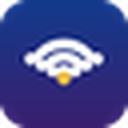
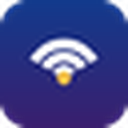
fix: 绕开未签名 exe 的发布者提示
- 新增 启动.vbs：用 WMI 创建进程，双击不再弹「无法验证发布者」
- 开机自启改为 wscript + 启动.vbs --watch
- 程序内自启开关同步使用启动器
- 图标 ico 小尺寸改为 BMP，修复资源管理器显示空白/花屏
- README 增加发布者提示说明
- 发布包加入 icon.ico / 启动.vbs

Changed region(s): [[0.5312, 0.375, 0.8438, 0.625], [0.1562, 0.375, 0.4688, 0.625]]

diff --git a/make_icon.py b/make_icon.py
@@ -86,13 +86,45 @@ def make(size: int) -> Image.Image:
     return img.resize((size, size), Image.LANCZOS)
 
 
+def bmp_payload(img: Image.Image) -> bytes:
+    """把 RGBA 图像编码成 ICO 内部的 BMP(DIB) 数据。
+
+    小尺寸必须用 BMP：PNG 压缩的 ICO 条目在资源管理器 / System.Drawing
+    里会渲染成花屏（这正是"图标损坏"的原因）。
+    """
+    w, h = img.size
+    px = img.convert("RGBA").load()
+
+    xor = bytearray()
+    for y in range(h - 1, -1, -1):
+        for x in range(w):
+            r, g, b, a = px[x, y]
+            xor += bytes((b, g, r, a))
+
+    stride = ((w + 31) // 32) * 4
+    mask = bytearray()
+    for y in range(h - 1, -1, -1):
+        row = bytearray(stride)
+        for x in range(w):
+            if px[x, y][3] == 0:
+                row[x // 8] |= 1 << (7 - (x % 8))
+        mask += row
+
+    header = struct.pack("<IiiHHIIiiII", 40, w, h * 2, 1, 32, 0,
+                         len(xor) + len(mask), 0, 0, 0, 0)
+    return header + bytes(xor) + bytes(mask)
+
+
 def write_ico(path: Path, images):
     images = sorted(images, key=lambda im: im.width)
     payloads = []
     for im in images:
-        buf = io.BytesIO()
-        im.save(buf, format="PNG")
-        payloads.append(buf.getvalue())
+        if im.width >= 256:
+            buf = io.BytesIO()
+            im.save(buf, format="PNG")
+            payloads.append(buf.getvalue())
+        else:
+            payloads.append(bmp_payload(im))
 
     with open(path, "wb") as fh:
         fh.write(struct.pack("<HHH", 0, 1, len(images)))

diff --git a/autologin.py b/autologin.py
@@ -643,7 +643,15 @@ def cmd_setup(args) -> int:
 
 # --------------------------------------------------------------------------- 开机自启
 def _autostart_command() -> str:
-    if FROZEN:  # 打包后直接让 exe 自己进守护模式
+    if FROZEN:
+        # 优先走隐藏启动器（WMI 创建进程），避免未签名 exe 触发
+        # Windows 的"打开文件 - 安全警告 / 无法验证发布者"弹窗
+        launcher = Path(sys.executable).parent / "启动.vbs"
+        if launcher.exists():
+            return '"{}" "{}" --watch'.format(
+                Path(os.environ.get("SystemRoot", r"C:\Windows")) / "System32" / "wscript.exe",
+                launcher,
+            )
         return '"{}" --watch'.format(sys.executable)
     return '"{}" "{}" --watch'.format(python_executable(console=False), ROOT / "autologin.py")
 

diff --git a/README.md b/README.md
@@ -23,6 +23,7 @@
 - **不需要安装 Python**，解压即用
 - 解压后的 `_internal` 文件夹必须和 exe 放在一起，别只把 exe 单独拖出来
 - 首次运行 Windows 或杀毒软件可能提示"未知发布者"，点「更多信息 → 仍要运行」
+- 如果每次双击都弹「无法验证发布者」，改用同目录的 **`启动.vbs`**（见常见问题）
 - 账号密码只留在本机
 
 ## 方法二：从源码运行
@@ -64,6 +65,7 @@
 | 开机没有自动登录 | 检查开关是否打开；移动过文件夹就关掉再打开一次 |
 | 日志显示「当前不在校园网」 | 正常保护：只有连上校园网才会发送账号密码 |
 | 想彻底卸载 | 双击程序文件夹里的 **`卸载.bat`**：自动关闭程序、删除开机自启、配置、加密密码和整个程序文件夹。也可以在「关于」页点「清除账号数据」，再双击 `卸载.bat` |
+| 双击提示「无法验证发布者」 | 这是 Windows 对未签名 exe 的发布者校验，不是程序弹的。改用同目录的 **`启动.vbs`** 启动即可（它通过 WMI 创建进程，不触发该提示）；开机自启已默认走这个入口 |
 | 为什么发布包是文件夹，而不是单个 exe？ | 单文件 exe 每次启动都要把自身解压到系统临时目录，部分机器的安全策略会拦住这一步（报 `Could not create temporary directory!`）。文件夹版运行时不需要解压，启动更快，也不会被这个策略影响 |
 
 账号密码只保存在本机：配置在 `%APPDATA%\campusnet`，密码用 Windows DPAPI 加密，**换电脑解不开**，源码和仓库里没有任何凭据。
@@ -76,6 +78,7 @@
 | --- | --- |
 | 程序目录 | 当前文件夹 |
 | 启动入口 | `szu-netlogin.exe`（发布包）/ `图形界面.bat`（源码） |
+| 无提示启动器 | `启动.vbs`（绕开「无法验证发布者」提示） |
 | 配置 | `%APPDATA%\campusnet\config.json` |
 | 加密密码文件 | `%APPDATA%\CampusNetAutoLogin\password.dat` |
 | 日志 | `%APPDATA%\CampusNetAutoLogin\autologin.log` |
